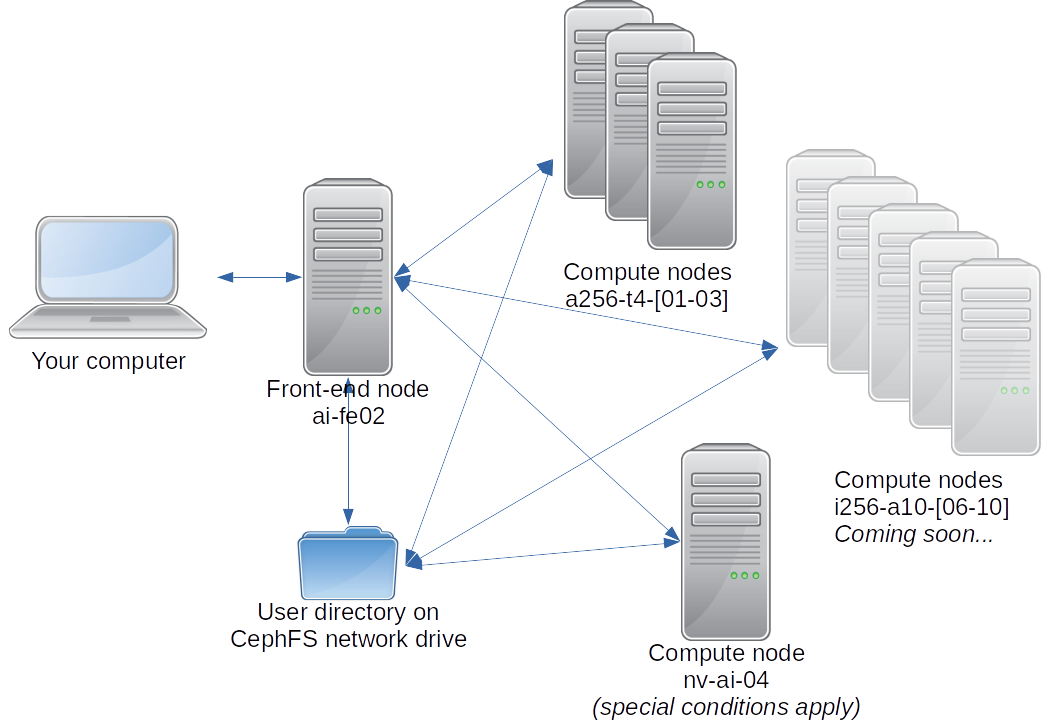
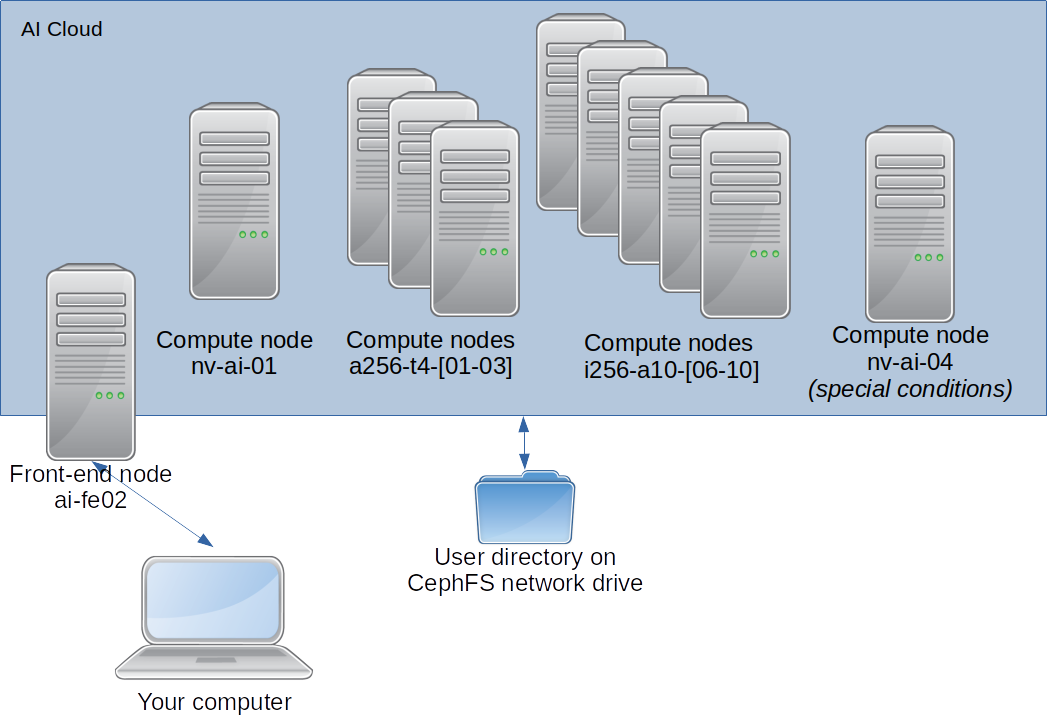
Updated overview and introduction pages
Some formatting, a few details on the A10 nodes, and figures showing
nv-ai-01 moved to "new" front-end.
Changed text descriptions to reflect moved nv-ai-01.

diff --git a/docs/overview.md b/docs/overview.md
@@ -27,20 +27,20 @@ to and from AI Cloud and defining and launching job scripts.
 The details of defining and running jobs is described in the
 [introduction](introduction.md).
 
-The two compute nodes nv-ai-01 and nv-ai-03 are [NVIDIA DGX-2
-servers](https://www.nvidia.com/en-us/data-center/dgx-2/). Each
-compute node is equipped with 2 x 24-core Intel Xeon CPUs, 1.5 TB of
+The single remaining compute node nv-ai-03 is an [NVIDIA DGX-2
+server](https://www.nvidia.com/en-us/data-center/dgx-2/). The
+compute node is equipped with 2 &times; 24-core Intel Xeon CPUs, 1.5 TB of
 system RAM, and 16 [NVIDIA Tesla V100
 GPUs](https://www.nvidia.com/en-us/data-center/v100/) with 32 GB of
 RAM each, all connected via NVIDIA NVLink.  
-These are very powerful servers which you can use smaller or larger
+This is a very powerful server which you can use smaller or larger
 portions of for shorter or longer duration. Details on how can be
 found in the [introduction](introduction.md).
 
 ???+ note
 
     In the future, the AI Cloud pilot platform will be
-    decomissioned and its two compute nodes included in the (new) AI
+    decomissioned and its compute node included in the (new) AI
     Cloud described below.
 
 ## AI Cloud (new)
@@ -57,22 +57,25 @@ different types of hardware available in the compute nodes.
 The compute nodes of the AI Cloud currently include:
 
 - Three compute nodes named a256-t4-01 to a256-t4-03; each with AMD
-  CPUs (2 x AMD EPYC 7302 16-core), 256GB of system RAM, and 6 [NVIDIA
+  CPUs (2 &times; AMD EPYC 7302 16-core), 256GB of system RAM, and 6 [NVIDIA
   T4 GPUs](https://www.nvidia.com/en-us/data-center/tesla-t4/) (16 GB
   of RAM each).
-- *Not yet ready:* Five compute nodes named i256-a10-06 to
-  i256-a10-06; each with Intel CPUs (<!-- TO-DO -->*TBD...*), 256GB of
-  system RAM, and <!-- TO-DO -->? [NVIDIA A10
+- Five compute nodes named i256-a10-06 to i256-a10-06; each with Intel
+  CPUs (2 &times; Xeon Gold 6326), 256GB of system RAM, and 4 [NVIDIA
+  A10
   GPUs](https://www.nvidia.com/en-us/data-center/products/a10-gpu/)
   (24 GB of RAM each).
+- One [NVIDIA DGX-2
+server](https://www.nvidia.com/en-us/data-center/dgx-2/) server named
+nv-ai-01; identical to nv-ai-03 above.
 - One [NVIDIA
   DGX-A100](https://www.nvidia.com/en-us/data-center/dgx-a100/) server
-  named nv-ai-04. This compute node is equipped with AMD CPUs (2 x AMD
+  named nv-ai-04. This compute node is equipped with AMD CPUs (2 &times; AMD
   Rome 7742 64-core), 2TB of system RAM, and 8 [NVIDIA A100
   GPUs](https://www.nvidia.com/en-us/data-center/a100/) (40GB of RAM
   each).
 - In the future, the newer AI Cloud will also contain the compute
-  nodes nv-ai-01 and nv-ai-03 from the AI Cloud pilot platform.
+  node nv-ai-03 from the AI Cloud pilot platform.
   
 !!! important
 
@@ -120,8 +123,8 @@ can *only* be carried out through Slurm. This means you can only run
 your jobs on the compute nodes by submitting them to the Slurm
 queueing system. It is also through Slurm that you request the amount
 of ressources your job requires, such as amount of RAM, number of CPUs
-(logical CPUs with hyperthreading = 2 x physical CPUs = 2 x cores),
-number of GPUs etc.  
+(logical CPUs with hyperthreading = 2 &times; physical CPUs = 2
+&times; cores), number of GPUs etc.  
 See how to get started with Slurm in the
 [introduction](introduction.md).
 

diff --git a/docs/introduction.md b/docs/introduction.md
@@ -20,7 +20,7 @@ The AI Cloud pilot platform consists of the following compute nodes:
 
 | Name                        | Nodes in total |GPUs per node   | CPU cores per node | CPU HW threads | RAM per node | RAM per GPU  | Disk         | NVLINK / NVSWITCH | Primary usage                         |
 | ---                         | ---            | ---            | ---                | ---            | ---          | ---          | ---          | ---               | ---                                   |
-| nv-ai-[01,03].srv.aau.dk    | 2              | 16 (V100)      | 48 (Intel Xeon)    | 96             | 1470 GB      | 32 GB        | 30TB /raid   | Yes               | Large / batch / multi-GPU jobs        |
+| nv-ai-03.srv.aau.dk         | 1              | 16 (V100)      | 48 (Intel Xeon)    | 96             | 1470 GB      | 32 GB        | 30TB /raid   | Yes               | Large / batch / multi-GPU jobs        |
 
 The (new) AI Cloud consists of the following compute nodes:
 
@@ -28,6 +28,7 @@ The (new) AI Cloud consists of the following compute nodes:
 | ---                         | ---            | ---            | ---                | ---            | ---          | ---          | ---          | ---               | ---                                   |
 | a256-t4-[01-03].srv.aau.dk  | 3              | 6 (NVIDIA T4)  | 32 (AMD EPYC)      | 64             | 256 GB       | 16 GB        | None locally | No                | Interactive / smaller single-GPU jobs |
 | i256-a10-[06-10].srv.aau.dk | 5              | 4 (NVIDIA A10) | 32 (Intel Xeon)    | 64             | 256 GB       | 24 GB        | None locally | No                | Interactive / smaller single-GPU jobs |
+| nv-ai-01.srv.aau.dk         | 1              | 16 (V100)      | 48 (Intel Xeon)    | 96             | 1470 GB      | 32 GB        | 30TB /raid   | Yes               | Large / batch / multi-GPU jobs        |
 | nv-ai-04.srv.aau.dk         | 1              | 8 (A100)       | 128 (AMD EPYC)     | 256            | 980 GB       | 40 GB        | 14TB /raid   | Yes               | Large / batch / multi-GPU jobs        |
 
 ## Getting started
